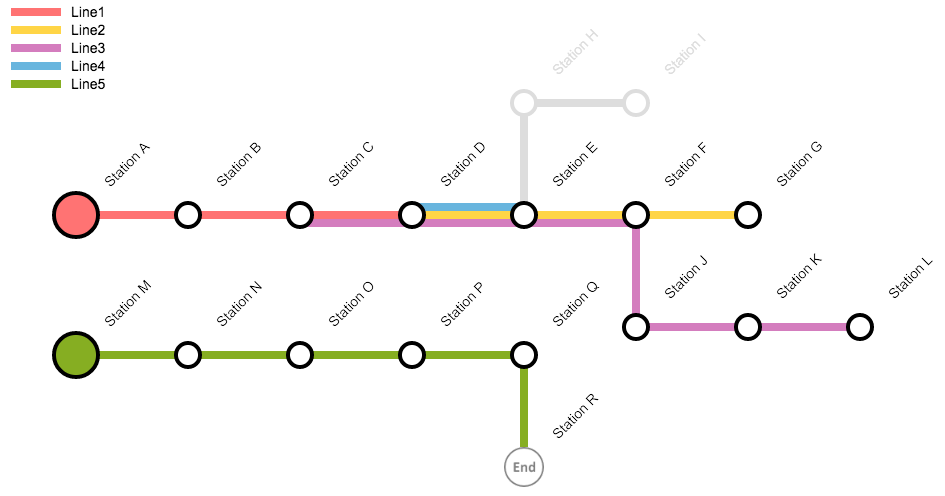
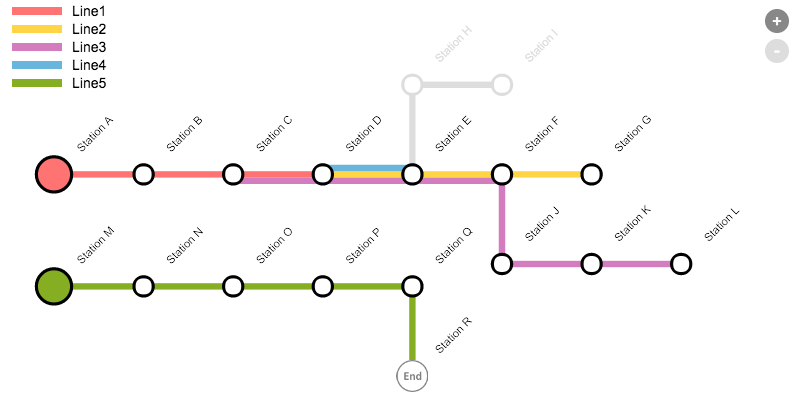
simplified sample data

diff --git a/build/example.html b/build/example.html
@@ -5,7 +5,7 @@
     <title></title>
   </head>
   <body style="background-color: #CCC;">
-    <div id="map" class="" style="width: 1200px; height: 700px; background-color: white;">
+    <div id="map" class="" style="width: 800px; height: 700px; background-color: white;">
 
     </div>
     <script type="text/javascript" src="tube-map-viz.js"></script>
